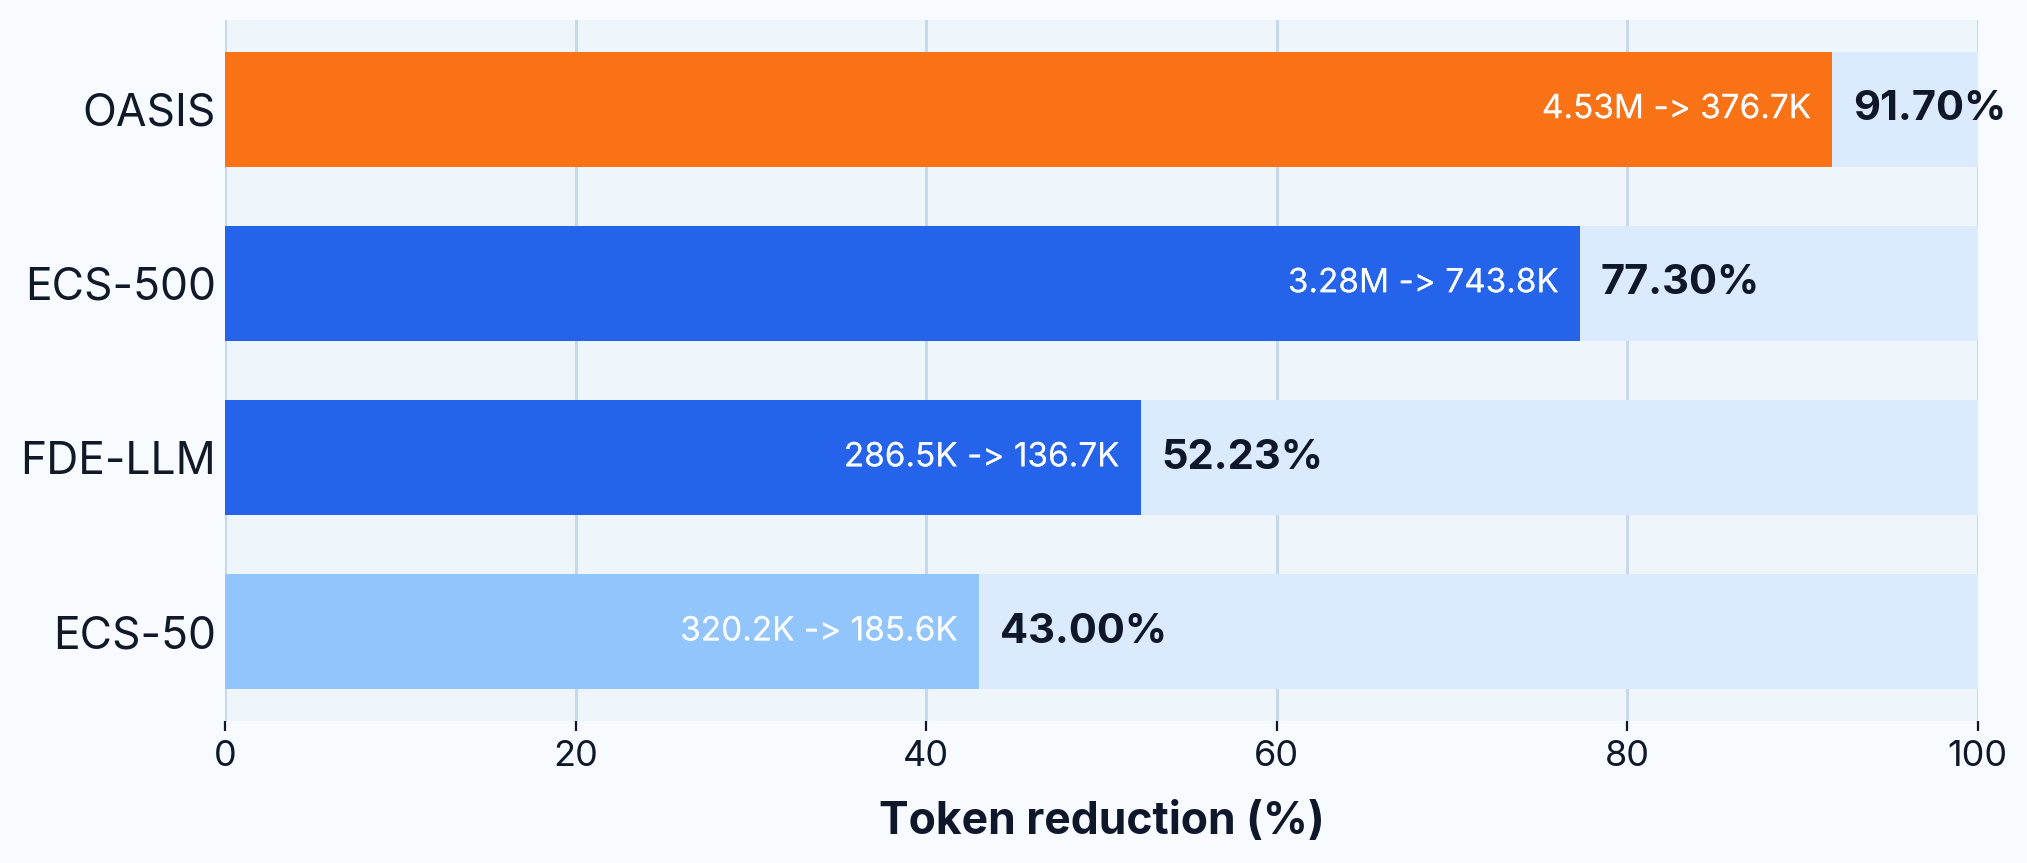
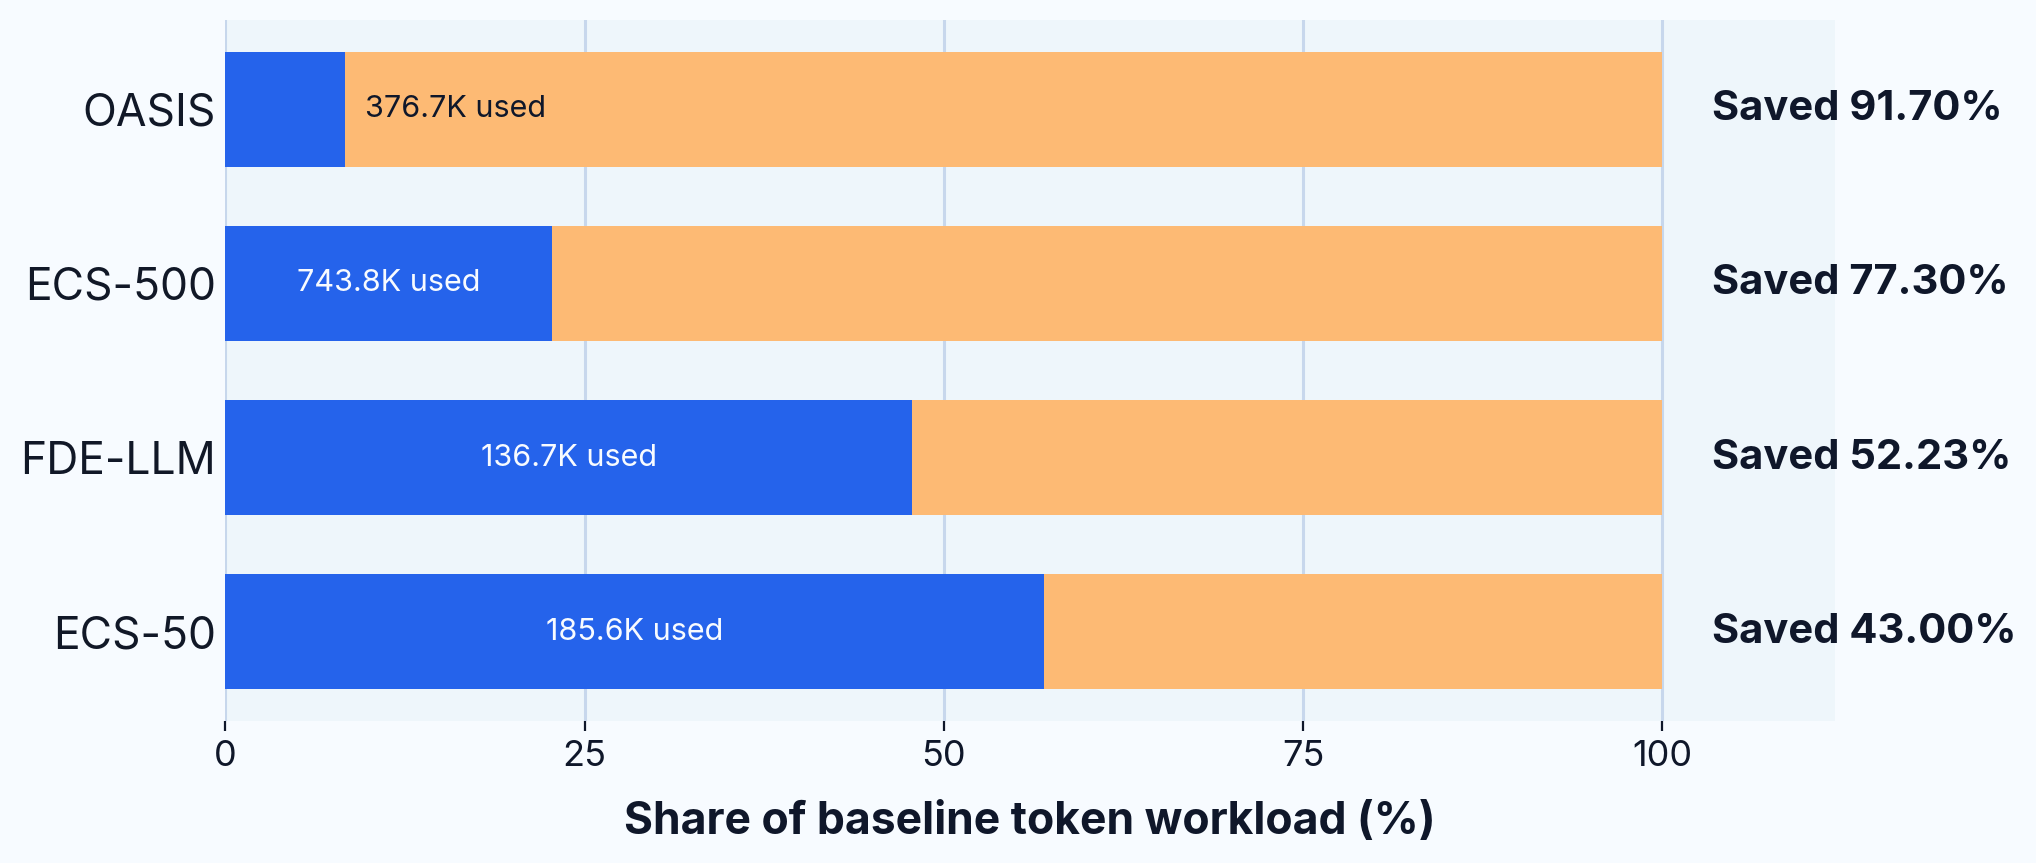
Reframe token chart around actual usage

diff --git a/docs/index.html b/docs/index.html
@@ -148,45 +148,49 @@
             <div class="chart-panel token-chart-panel" aria-label="Cluster-based coordination token reduction across benchmarks">
               <div class="chart-grid chart-grid-token" aria-hidden="true"></div>
               <div class="token-chart-rows">
-                <div class="token-chart-row" style="--value: 91.7">
+                <div class="token-chart-row" style="--actual: 8.3; --saved: 91.7">
                   <div class="token-row-head">
                     <span class="token-row-label">OASIS</span>
-                    <strong class="token-row-value">91.7%</strong>
+                    <strong class="token-row-value">Saved 91.7%</strong>
                   </div>
                   <div class="token-row-track">
-                    <span class="token-row-fill"></span>
+                    <span class="token-row-fill token-row-fill-actual"></span>
+                    <span class="token-row-fill token-row-fill-saved"></span>
                   </div>
-                  <span class="token-row-meta">4.53M -> 376.7K</span>
+                  <span class="token-row-meta">376.7K used from 4.53M baseline</span>
                 </div>
-                <div class="token-chart-row" style="--value: 77.3">
+                <div class="token-chart-row" style="--actual: 22.7; --saved: 77.3">
                   <div class="token-row-head">
                     <span class="token-row-label">ECS-500</span>
-                    <strong class="token-row-value">77.3%</strong>
+                    <strong class="token-row-value">Saved 77.3%</strong>
                   </div>
                   <div class="token-row-track">
-                    <span class="token-row-fill"></span>
+                    <span class="token-row-fill token-row-fill-actual"></span>
+                    <span class="token-row-fill token-row-fill-saved"></span>
                   </div>
-                  <span class="token-row-meta">3.28M -> 743.8K</span>
+                  <span class="token-row-meta">743.8K used from 3.28M baseline</span>
                 </div>
-                <div class="token-chart-row" style="--value: 52.23">
+                <div class="token-chart-row" style="--actual: 47.77; --saved: 52.23">
                   <div class="token-row-head">
                     <span class="token-row-label">FDE-LLM</span>
-                    <strong class="token-row-value">52.23%</strong>
+                    <strong class="token-row-value">Saved 52.23%</strong>
                   </div>
                   <div class="token-row-track">
-                    <span class="token-row-fill"></span>
+                    <span class="token-row-fill token-row-fill-actual"></span>
+                    <span class="token-row-fill token-row-fill-saved"></span>
                   </div>
-                  <span class="token-row-meta">286.5K -> 136.7K</span>
+                  <span class="token-row-meta">136.7K used from 286.5K baseline</span>
                 </div>
-                <div class="token-chart-row" style="--value: 43">
+                <div class="token-chart-row" style="--actual: 57; --saved: 43">
                   <div class="token-row-head">
                     <span class="token-row-label">ECS-50</span>
-                    <strong class="token-row-value">43.0%</strong>
+                    <strong class="token-row-value">Saved 43.0%</strong>
                   </div>
                   <div class="token-row-track">
-                    <span class="token-row-fill"></span>
+                    <span class="token-row-fill token-row-fill-actual"></span>
+                    <span class="token-row-fill token-row-fill-saved"></span>
                   </div>
-                  <span class="token-row-meta">320.2K -> 185.6K</span>
+                  <span class="token-row-meta">185.6K used from 320.2K baseline</span>
                 </div>
               </div>
               <div class="chart-axis token-chart-axis" aria-hidden="true">

diff --git a/docs/styles.css b/docs/styles.css
@@ -956,6 +956,7 @@ nav {
 .fidelity-row-track {
   position: relative;
   overflow: hidden;
+  display: flex;
   height: 14px;
   border-radius: 999px;
   background: linear-gradient(180deg, rgba(231, 229, 228, 0.55), rgba(250, 250, 249, 0.85));
@@ -971,13 +972,21 @@ nav {
   transition: transform 220ms ease, filter 220ms ease, box-shadow 220ms ease;
 }
 
-.token-row-fill {
-  width: calc(var(--value) * 1%);
-  background: linear-gradient(90deg, #38bdf8 0%, #2563eb 42%, #1d4ed8 100%);
+.token-row-fill-actual {
+  width: calc(var(--actual) * 1%);
+  background: linear-gradient(90deg, #1d4ed8 0%, #2563eb 52%, #38bdf8 100%);
   box-shadow:
     0 0 0 1px rgba(255, 255, 255, 0.35) inset,
     0 1px 0 rgba(255, 255, 255, 0.45) inset,
     0 6px 18px rgba(37, 99, 235, 0.35);
+}
+
+.token-row-fill-saved {
+  width: calc(var(--saved) * 1%);
+  background: linear-gradient(90deg, #fed7aa 0%, #fdba74 48%, #fb923c 100%);
+  box-shadow:
+    inset 1px 0 0 rgba(255, 255, 255, 0.75),
+    0 0 0 1px rgba(255, 255, 255, 0.18) inset;
 }
 
 .token-chart-row:hover .token-row-fill,

diff --git a/scripts/generate_feature_charts.py b/scripts/generate_feature_charts.py
@@ -5,7 +5,6 @@ import os
 from pathlib import Path
 
 import matplotlib.pyplot as plt
-from matplotlib import patheffects as pe
 from matplotlib.ticker import FuncFormatter
 
 
@@ -64,43 +63,55 @@ def save_token_chart(data: dict) -> None:
     )
 
     labels = [item["label"] for item in entries]
-    values = [item["token_save_pct"] for item in entries]
-    details = [
-        f"{format_tokens(item['base_tokens'])} -> {format_tokens(item['co_tokens'])}"
-        for item in entries
-    ]
+    saved_values = [item["token_save_pct"] for item in entries]
+    actual_values = [100 - value for value in saved_values]
+    details = [f"{format_tokens(item['co_tokens'])} used" for item in entries]
 
     fig, ax = base_figure()
     ax.barh(labels, [100] * len(labels), color=COLORS["track"], height=0.66)
-    bar_colors = [COLORS["orange"], COLORS["blue"], COLORS["blue"], COLORS["blue_soft"]]
-    bars = ax.barh(labels, values, color=bar_colors, height=0.66)
+    actual_bars = ax.barh(labels, actual_values, color=COLORS["blue"], height=0.66)
+    saved_bars = ax.barh(
+        labels,
+        saved_values,
+        left=actual_values,
+        color=COLORS["orange_soft"],
+        height=0.66,
+    )
     ax.invert_yaxis()
-    ax.set_xlim(0, 100)
-    ax.set_xlabel("Token reduction (%)", fontsize=16, color=COLORS["navy"], labelpad=10, fontweight="bold")
+    ax.set_xlim(0, 112)
+    ax.set_xticks([0, 25, 50, 75, 100])
+    ax.set_xlabel("Share of baseline token workload (%)", fontsize=16, color=COLORS["navy"], labelpad=10, fontweight="bold")
     ax.tick_params(axis="x", labelsize=13, colors=COLORS["navy"])
     ax.tick_params(axis="y", labelsize=16, colors=COLORS["ink"], length=0)
 
-    for bar, value, detail in zip(bars, values, details):
-        y = bar.get_y() + bar.get_height() / 2
+    for actual_bar, saved_bar, saved_value, detail in zip(actual_bars, saved_bars, saved_values, details):
+        y = saved_bar.get_y() + saved_bar.get_height() / 2
         ax.text(
-            value + 1.2,
+            103.5,
             y,
-            f"{value:.2f}%",
+            f"Saved {saved_value:.2f}%",
             va="center",
             ha="left",
             fontsize=15,
             color=COLORS["navy"],
             fontweight="bold",
         )
+        actual_width = actual_bar.get_width()
+        detail_x = actual_width / 2
+        detail_ha = "center"
+        detail_color = "#f8fbff"
+        if actual_width < 18:
+            detail_x = actual_width + 1.4
+            detail_ha = "left"
+            detail_color = COLORS["navy"]
         ax.text(
-            max(value - 1.2, 2),
+            detail_x,
             y,
             detail,
             va="center",
-            ha="right",
-            fontsize=12,
-            color="#f8fbff",
-            path_effects=[pe.withStroke(linewidth=0)],
+            ha=detail_ha,
+            fontsize=11,
+            color=detail_color,
         )
 
     out = ASSET_DIR / "feature_token_savings_bar.png"
